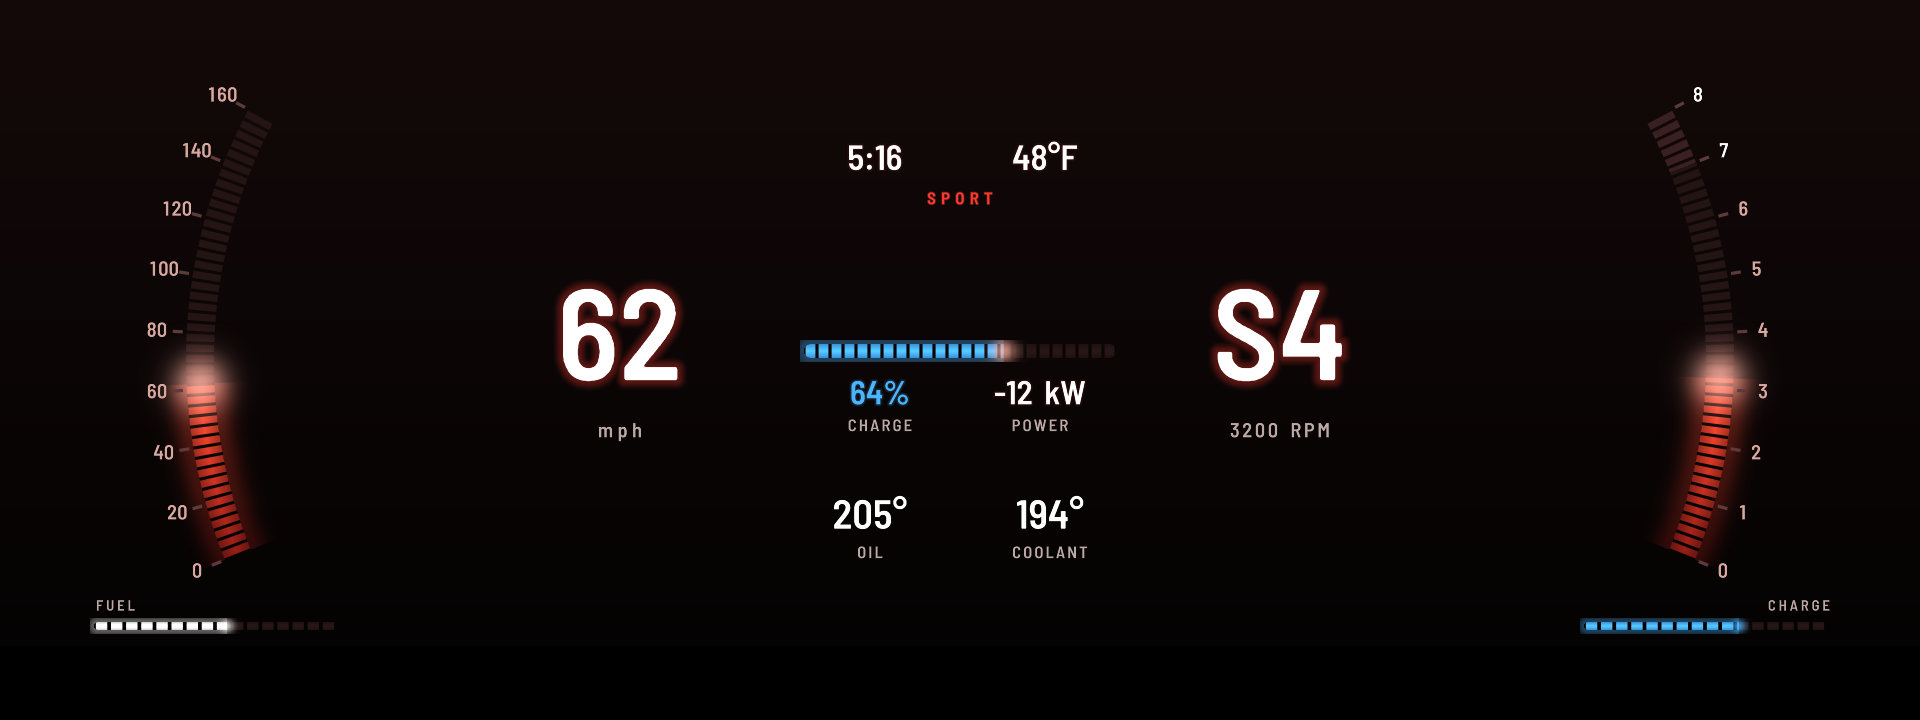
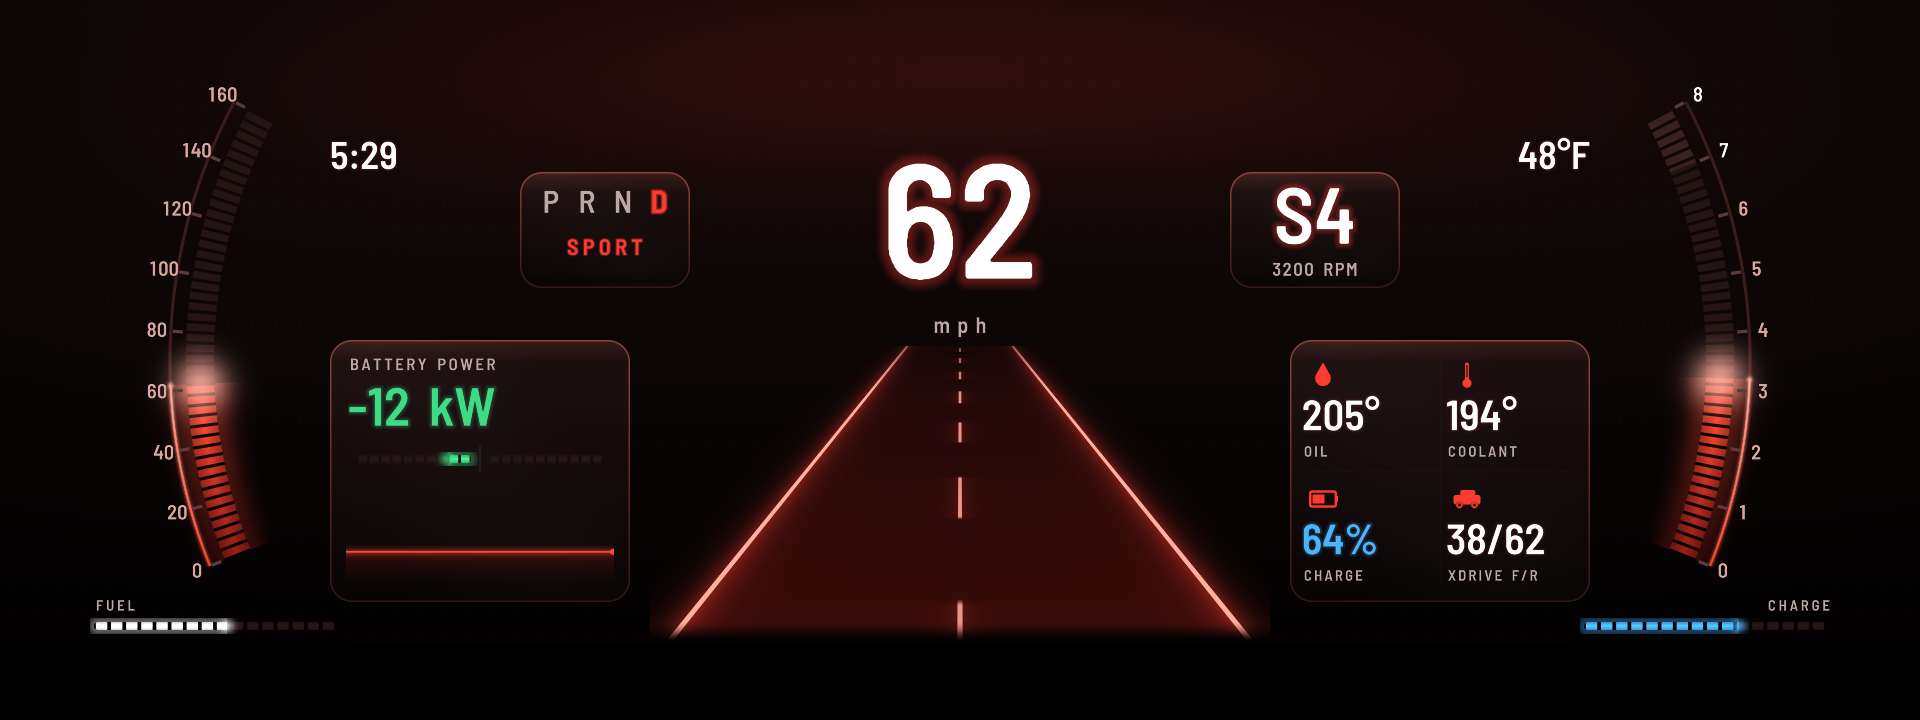
Cluster Layouts 0.18.0: Modern wide redesigned like a new car's cluster
With the car's own bottom strip: the speed large over the road ahead
(a new road shader, its lane line running with the speed on the
cluster's clock), the selector and drive mode and the gear on glass
chips, a power card with a centre-zero bar and trend, a card of oil,
coolant, charge and xDrive with icons, hairlines outside the arcs and a
lit, dotted background. Cluster Centre 0.7.2 carries the shared shader.

diff --git a/apps/cluster_layouts/layout_modern_wide.js b/apps/cluster_layouts/layout_modern_wide.js
@@ -20,16 +20,19 @@ const PALETTES = {
         bgTop: '#0b1018', bgBottom: '#020305', track: '#121a24', fill0: '#1d5f9e', fill1: '#5cc8ff', tip: '#a8e4ff',
         red: '#ff3b30', tick: '#3b4c5e', num: '#9fb3c8', text: '#f2f7ff', glow: '#3fa6ff', dim: '#a6b0ba', rule: '#1c2a3a', ev: '#4ab4ff',
         mode: 'COMFORT',
+        cardTop: '#111b28', cardBottom: '#070b11', cardEdge: '#2a4058', regen: '#3ddc84', road: '#1d5f9e',
     },
     sport: {
         bgTop: '#140909', bgBottom: '#040202', track: '#241414', fill0: '#8a1a14', fill1: '#ff4a30', tip: '#ffb0a0',
         red: '#ffffff', tick: '#5e3b3b', num: '#d8a8a0', text: '#ffffff', glow: '#ff3b2f', dim: '#bca8a4', rule: '#3a1c1c', ev: '#4ab4ff',
         mode: 'SPORT',
+        cardTop: '#1f1010', cardBottom: '#0a0505', cardEdge: '#5a2a26', regen: '#3ddc84', road: '#8a1a14',
     },
     efficient: {
         bgTop: '#06120f', bgBottom: '#010403', track: '#0f201c', fill0: '#127a5e', fill1: '#3cf0b8', tip: '#b0ffe6',
         red: '#ff3b30', tick: '#2f5048', num: '#9cc8bc', text: '#effffb', glow: '#22d3a0', dim: '#9eb6b0', rule: '#163a32', ev: '#22d3a0',
         mode: 'EFFICIENT',
+        cardTop: '#0c1d19', cardBottom: '#040b09', cardEdge: '#1f4a40', regen: '#5ef2c4', road: '#127a5e',
     },
 };
 const bandColours = (t) => ({ track: t.track, fill0: t.fill0, fill1: t.fill1, redc: t.red, tip: t.tip, tick: t.tick, num: t.num });
@@ -38,6 +41,80 @@ const txt = (t) => ({ color: [t.text, 1], glow: [t.glow, 0.15] });
 const evTxt = (t) => ({ color: [t.ev, 1], glow: [t.ev, 0.3] });
 const lbl = (t) => ({ color: [t.dim, 1], glow: [t.glow, 0] });
 const bg = (key, x, y, w, h) => ({ key, kind: 'panel', x, y, w, h, params: { u_box: [0, 0, 0, 1] }, colors: (t) => ({ top: t.bgTop, bottom: t.bgBottom, border: t.bgBottom }) });
+
+/* ---- the car's own bottom strip, readings in the centre: a new car's cluster ----
+ * A textured background with a glow behind the top; the two arcs with a hairline outside each; the speed large
+ * in the middle with the road ahead under it (its lane line running with the speed, on the cluster's clock);
+ * the drive selector and mode on a chip left of the speed, the gear and engine speed on one right of it; a glass
+ * card left with the battery's power, a centre-zero bar (regenerating left, drawing right) and its trend, and one
+ * right with oil, coolant, the charge and the xDrive split, each with its icon. */
+const ICON = { thermo: 0, oil: 1, turbo: 5, battery: 6, car: 10 };
+const card = (key, x, y, w, h) => ({ key, kind: 'panel', x, y, w, h, params: { u_box: [22, 1.5, 0.7, 0.92] }, colors: (t) => ({ top: t.cardTop, bottom: t.cardBottom, border: t.cardEdge }) });
+const icon = (key, x, y, size, id, colour) => ({ key, kind: 'icon', x, y, w: size, h: size, params: { u_icon: [id], u_line: [0] }, colors: (t, d) => ({ color: [typeof colour === 'function' ? colour(t, d) : t[colour], 1] }) });
+/** A straight bar (the band shader's bar mode), from the left or from the right. */
+const hbar = (key, x, y, w, h, value, colours, fromRight, segments) => ({ key, kind: 'band', x, y, w, h,
+    params: { u_geo: [Math.max(6, h / 2), h / 2, 0, Math.max(4, h * 0.6)], u_span: [fromRight ? -1 : 0, 0, segments || 0, 0.25], u_marks: [0, 0, 0, 0], u_red: [2] },
+    colors: colours, value, max: 1, sweep: true });
+const kwOf = (d) => (C.isNum(d.kw) ? d.kw : 0);
+
+function newCar(o, arcs, gearC, rpmTxt) {
+    const engine = C.engineFocus(o), sc = C.speedScale(o);
+    const hair = arcs.map((a) => Object.assign({}, a, {
+        key: a.key + 'Hair', z: -1,
+        params: Object.assign({}, a.params, { u_geo: [a.params.u_geo[0], a.params.u_geo[1], a.params.u_geo[2] + 30, 3], u_span: [a.params.u_span[0], a.params.u_span[1], 0, 0], u_marks: [0, 0, 0, 0], u_red: [2] }),
+        colors: (t) => ({ track: t.rule, fill0: t.fill1, fill1: t.tip, redc: t.red, tip: t.tip, tick: t.tick, num: t.num }),
+    }));
+    const lit = (t) => ({ color: [t.glow, 1], glow: [t.glow, 0.6] });
+    const L = { x: 330, y: 340, w: 300, h: 262 }, R = { x: 1290, y: 340, w: 300, h: 262 };
+    const cell = (i, id, ic, value, label, colour) => {
+        const cx = R.x + 12 + (i % 2) * 144, cy = R.y + 14 + Math.floor(i / 2) * 124;
+        return [icon(id + 'Ic', cx + 6, cy + 6, 30, ic, 'glow'),
+            C.text(id, cx, cy + 40, 132, 46, value, colour || txt, { align: 0 }),
+            C.text(id + 'Lbl', cx + 2, cy + 90, 132, 16, label, lbl, { align: 0, tracking: 0.14 })];
+    };
+    return [
+        { key: 'bgTex', kind: 'bg', x: 0, y: 0, w: 1920, h: 720, params: { u_look: [1, 0.55, 0.75, 24], u_feather: [0] }, colors: (t) => ({ top: t.bgTop, bottom: t.bgBottom, accent: t.glow }) },
+        { key: 'road', kind: 'road', x: 650, y: 346, w: 620, h: 296, value: (d) => (C.isNum(d.speed) ? Math.min(1, C.speedIn(o, d.speed) / sc.max) : 0), max: 1,
+            colors: (t) => ({ line: t.tip, glow: t.glow, surface: t.road }) },
+    ].concat(hair, arcs, [
+        // the top: the time and the outside temperature, inside the glass's slanted corners
+        C.text('clock', 330, 136, 240, 42, C.clock, txt, { align: 0 }),
+        C.text('outside', 1350, 136, 240, 42, (d) => C.outsideText(o, d.outside), txt, { align: 1 }),
+        // the speed, large, in the middle
+        C.text('speedDigits', 700, 140, 520, 176, (d) => C.speedText(o, d), big),
+        C.text('speedUnit', 700, 314, 520, 24, C.speedUnit(o), lbl, { tracking: 0.3 }),
+        // left chip: the selector and the drive mode; right chip: the gear and the engine speed
+        card('selChip', 520, 172, 170, 116),
+    ], 'PRND'.split('').map((ch, i) => C.text('sel' + ch, 534 + i * 36, 186, 34, 34, ch,
+        (t, d) => (C.selectorLit(d) === ch ? { color: [ch === 'R' ? t.red : t.glow, 1], glow: [t.glow, 0.9] } : { color: [t.dim, 1], glow: [t.glow, 0] }))), [
+        C.text('mode', 526, 236, 158, 24, C.modeText, lit, { tracking: 0.18 }),
+        card('gearChip', 1230, 172, 170, 116),
+        C.text('gear', 1230, 176, 170, 86, C.gearText, gearC),
+        C.text('rpmDigits', 1230, 260, 170, 20, rpmTxt, lbl, { tracking: 0.08 }),
+        // left card: the battery's power (or the engine's torque), a centre-zero bar and its trend
+        card('powerCard', L.x, L.y, L.w, L.h),
+        C.text('kwLbl', L.x + 20, L.y + 16, L.w - 40, 18, C.focus.powerLabel(o, true), lbl, { align: 0, tracking: 0.14 }),
+        C.text('kwNow', L.x + 18, L.y + 40, L.w - 36, 58, C.focus.power(o),
+            engine ? txt : (t, d) => ({ color: [kwOf(d) < -0.3 ? t.regen : t.text, 1], glow: [kwOf(d) < -0.3 ? t.regen : t.glow, 0.3] }), { align: 0 }),
+    ], engine ? [hbar('pwrBar', L.x + 20, L.y + 112, L.w - 40, 14, C.focus.torqueFrac, (t) => ({ track: t.track, fill0: t.fill0, fill1: t.fill1, redc: t.red, tip: t.tip, tick: t.dim, num: t.num }), false, 24)] : [
+        // regenerating fills left from the middle (to 60 kW), drawing fills right (to 100 kW)
+        hbar('regenBar', L.x + 20, L.y + 112, (L.w - 44) / 2, 14, (d) => Math.max(0, Math.min(1, -kwOf(d) / 60)), (t) => ({ track: t.track, fill0: t.regen, fill1: t.regen, redc: t.red, tip: t.regen, tick: t.dim, num: t.num }), true, 10),
+        hbar('drawBar', L.x + 24 + (L.w - 44) / 2, L.y + 112, (L.w - 44) / 2, 14, (d) => Math.max(0, Math.min(1, kwOf(d) / 100)), (t) => ({ track: t.track, fill0: t.fill0, fill1: t.fill1, redc: t.red, tip: t.tip, tick: t.dim, num: t.num }), false, 10),
+        C.flat('pwrZero', L.x + L.w / 2 - 1, L.y + 106, 2, 26, 'tip'),
+    ], [
+        { key: 'pwrTrend', kind: 'spark', x: L.x + 16, y: L.y + 146, w: L.w - 32, h: 96, every: 2000,
+            sample: engine ? (d) => (C.isNum(d.torque) ? Math.max(0, Math.min(1, d.torque / 450)) : -1) : (d) => (C.isNum(d.kw) ? Math.max(0, Math.min(1, 0.375 + d.kw / 160)) : -1),
+            colors: (t) => ({ line: t.fill1, fill: t.fill0 }) },
+        // right card: oil, coolant, the charge (or boost) and the xDrive split
+        card('infoCard', R.x, R.y, R.w, R.h),
+        C.flat('infoRuleV', R.x + R.w / 2, R.y + 18, 1, R.h - 36, 'cardEdge'),
+        C.flat('infoRuleH', R.x + 18, R.y + R.h / 2, R.w - 36, 1, 'cardEdge'),
+    ],
+    cell(0, 'oil', ICON.oil, (d) => C.tempText(o, d.oil), 'OIL'),
+    cell(1, 'coolant', ICON.thermo, (d) => C.tempText(o, d.coolant), 'COOLANT'),
+    cell(2, 'soc', engine ? ICON.turbo : ICON.battery, C.focus.charge(o), C.focus.chargeLabel(o), engine ? txt : evTxt),
+    cell(3, 'split', ICON.car, (d) => (C.isNum(d.splitRear) ? Math.round(100 - d.splitRear) + '/' + Math.round(d.splitRear) : '--'), 'XDRIVE F/R'));
+}
 
 module.exports = {
     id: 'modern_wide',
@@ -92,6 +169,7 @@ module.exports = {
             C.text('gear', 1150, 270, 260, 140, C.gearText, gearC),
             C.text('rpmDigits', 1150, 420, 260, 22, rpmTxt, lbl, { tracking: 0.12 }),
         ]);
+        if (strip && (o.centre || 'info') === 'info') return newCar(o, arcs, gearC, rpmTxt);
         if (o.centre === 'stock') {
             list[0] = bg('bg', 0, 0, 760, 720);
             list.splice(1, 0, bg('bgR', 1160, 0, 760, 720));

diff --git a/apps/cluster_centre/shaders.js b/apps/cluster_centre/shaders.js
@@ -764,4 +764,40 @@ void main() {
     gl_FragColor = vec4(a > 0.0 ? min(col / max(a, 0.001), vec3(1.0)) : vec3(0.0), a);
 }`;
 
-module.exports = { HIGHP, COMMON, GLYPH, FLAT_FS, PANEL_FS, DIAL_FS, BAND_FS, TEXT_FS, BG_FS, ICON_FS, SPARK_FS, CAR_FS, LEDS_FS, FLAG_FS, EAGLE_FS, FIREWORKS_FS };
+/**
+ * A road ahead in perspective: two lanes' edges converging to a point above the layer, the lane line between
+ * them dashed and running towards the viewer with the speed (on the renderer's clock: only the speed is sent),
+ * a soft glow along the edges, the surface faintly lit, fading out at the horizon.
+ *   u_value   the speed 0..1 (how fast the dashes run)
+ */
+const ROAD_FS = `#version 100
+${HIGHP}${COMMON}
+uniform vec2 u_size;
+uniform highp float u_time;
+uniform float u_value;
+uniform vec3 u_line;
+uniform vec3 u_glow;
+uniform vec3 u_surface;
+varying vec2 v_uv;
+float lineA(float dx, float w) { return clamp(w - abs(dx) + 0.5, 0.0, 1.0); }
+void main() {
+    vec2 p = v_uv * u_size;
+    float h0 = u_size.y * 0.22;
+    float t = (p.y + h0) / (u_size.y + h0);               /* 0 at the vanishing point, 1 at the bottom */
+    float cx = u_size.x * 0.5, hw = t * u_size.x * 0.47, dx = p.x - cx, ax = abs(dx);
+    float z = 1.0 / max(t, 0.05);
+    float run = fract(z * 1.4 + u_time * (0.25 + 2.2 * clamp(u_value, 0.0, 1.0)));
+    float dash = smoothstep(0.42, 0.46, run) * (1.0 - smoothstep(0.86, 0.9, run));
+    float w = 0.8 + 2.6 * t;
+    float edge = lineA(ax - hw, w);
+    float mid = lineA(dx, w * 0.8) * dash;
+    float glow = exp(-abs(ax - hw) / (4.0 + 16.0 * t)) * 0.45 + exp(-ax / (3.0 + 10.0 * t)) * 0.18 * dash;
+    float fade = smoothstep(0.04, 0.34, t) * (1.0 - smoothstep(0.94, 1.0, t));
+    float onRoad = 1.0 - smoothstep(hw - 1.5, hw + 1.5, ax);
+    vec4 acc = vec4(u_surface, onRoad * (0.10 + 0.30 * t) * fade);
+    acc = over(acc, u_glow, clamp(glow, 0.0, 1.0) * fade);
+    acc = over(acc, u_line, max(edge, mid * 0.85) * fade);
+    gl_FragColor = acc;
+}`;
+
+module.exports = { HIGHP, COMMON, GLYPH, FLAT_FS, PANEL_FS, DIAL_FS, BAND_FS, TEXT_FS, BG_FS, ICON_FS, SPARK_FS, CAR_FS, LEDS_FS, FLAG_FS, EAGLE_FS, FIREWORKS_FS, ROAD_FS };

diff --git a/apps/cluster_layouts/shaders.js b/apps/cluster_layouts/shaders.js
@@ -764,4 +764,40 @@ void main() {
     gl_FragColor = vec4(a > 0.0 ? min(col / max(a, 0.001), vec3(1.0)) : vec3(0.0), a);
 }`;
 
-module.exports = { HIGHP, COMMON, GLYPH, FLAT_FS, PANEL_FS, DIAL_FS, BAND_FS, TEXT_FS, BG_FS, ICON_FS, SPARK_FS, CAR_FS, LEDS_FS, FLAG_FS, EAGLE_FS, FIREWORKS_FS };
+/**
+ * A road ahead in perspective: two lanes' edges converging to a point above the layer, the lane line between
+ * them dashed and running towards the viewer with the speed (on the renderer's clock: only the speed is sent),
+ * a soft glow along the edges, the surface faintly lit, fading out at the horizon.
+ *   u_value   the speed 0..1 (how fast the dashes run)
+ */
+const ROAD_FS = `#version 100
+${HIGHP}${COMMON}
+uniform vec2 u_size;
+uniform highp float u_time;
+uniform float u_value;
+uniform vec3 u_line;
+uniform vec3 u_glow;
+uniform vec3 u_surface;
+varying vec2 v_uv;
+float lineA(float dx, float w) { return clamp(w - abs(dx) + 0.5, 0.0, 1.0); }
+void main() {
+    vec2 p = v_uv * u_size;
+    float h0 = u_size.y * 0.22;
+    float t = (p.y + h0) / (u_size.y + h0);               /* 0 at the vanishing point, 1 at the bottom */
+    float cx = u_size.x * 0.5, hw = t * u_size.x * 0.47, dx = p.x - cx, ax = abs(dx);
+    float z = 1.0 / max(t, 0.05);
+    float run = fract(z * 1.4 + u_time * (0.25 + 2.2 * clamp(u_value, 0.0, 1.0)));
+    float dash = smoothstep(0.42, 0.46, run) * (1.0 - smoothstep(0.86, 0.9, run));
+    float w = 0.8 + 2.6 * t;
+    float edge = lineA(ax - hw, w);
+    float mid = lineA(dx, w * 0.8) * dash;
+    float glow = exp(-abs(ax - hw) / (4.0 + 16.0 * t)) * 0.45 + exp(-ax / (3.0 + 10.0 * t)) * 0.18 * dash;
+    float fade = smoothstep(0.04, 0.34, t) * (1.0 - smoothstep(0.94, 1.0, t));
+    float onRoad = 1.0 - smoothstep(hw - 1.5, hw + 1.5, ax);
+    vec4 acc = vec4(u_surface, onRoad * (0.10 + 0.30 * t) * fade);
+    acc = over(acc, u_glow, clamp(glow, 0.0, 1.0) * fade);
+    acc = over(acc, u_line, max(edge, mid * 0.85) * fade);
+    gl_FragColor = acc;
+}`;
+
+module.exports = { HIGHP, COMMON, GLYPH, FLAT_FS, PANEL_FS, DIAL_FS, BAND_FS, TEXT_FS, BG_FS, ICON_FS, SPARK_FS, CAR_FS, LEDS_FS, FLAG_FS, EAGLE_FS, FIREWORKS_FS, ROAD_FS };

diff --git a/shared/shaders.js b/shared/shaders.js
@@ -764,4 +764,40 @@ void main() {
     gl_FragColor = vec4(a > 0.0 ? min(col / max(a, 0.001), vec3(1.0)) : vec3(0.0), a);
 }`;
 
-module.exports = { HIGHP, COMMON, GLYPH, FLAT_FS, PANEL_FS, DIAL_FS, BAND_FS, TEXT_FS, BG_FS, ICON_FS, SPARK_FS, CAR_FS, LEDS_FS, FLAG_FS, EAGLE_FS, FIREWORKS_FS };
+/**
+ * A road ahead in perspective: two lanes' edges converging to a point above the layer, the lane line between
+ * them dashed and running towards the viewer with the speed (on the renderer's clock: only the speed is sent),
+ * a soft glow along the edges, the surface faintly lit, fading out at the horizon.
+ *   u_value   the speed 0..1 (how fast the dashes run)
+ */
+const ROAD_FS = `#version 100
+${HIGHP}${COMMON}
+uniform vec2 u_size;
+uniform highp float u_time;
+uniform float u_value;
+uniform vec3 u_line;
+uniform vec3 u_glow;
+uniform vec3 u_surface;
+varying vec2 v_uv;
+float lineA(float dx, float w) { return clamp(w - abs(dx) + 0.5, 0.0, 1.0); }
+void main() {
+    vec2 p = v_uv * u_size;
+    float h0 = u_size.y * 0.22;
+    float t = (p.y + h0) / (u_size.y + h0);               /* 0 at the vanishing point, 1 at the bottom */
+    float cx = u_size.x * 0.5, hw = t * u_size.x * 0.47, dx = p.x - cx, ax = abs(dx);
+    float z = 1.0 / max(t, 0.05);
+    float run = fract(z * 1.4 + u_time * (0.25 + 2.2 * clamp(u_value, 0.0, 1.0)));
+    float dash = smoothstep(0.42, 0.46, run) * (1.0 - smoothstep(0.86, 0.9, run));
+    float w = 0.8 + 2.6 * t;
+    float edge = lineA(ax - hw, w);
+    float mid = lineA(dx, w * 0.8) * dash;
+    float glow = exp(-abs(ax - hw) / (4.0 + 16.0 * t)) * 0.45 + exp(-ax / (3.0 + 10.0 * t)) * 0.18 * dash;
+    float fade = smoothstep(0.04, 0.34, t) * (1.0 - smoothstep(0.94, 1.0, t));
+    float onRoad = 1.0 - smoothstep(hw - 1.5, hw + 1.5, ax);
+    vec4 acc = vec4(u_surface, onRoad * (0.10 + 0.30 * t) * fade);
+    acc = over(acc, u_glow, clamp(glow, 0.0, 1.0) * fade);
+    acc = over(acc, u_line, max(edge, mid * 0.85) * fade);
+    gl_FragColor = acc;
+}`;
+
+module.exports = { HIGHP, COMMON, GLYPH, FLAT_FS, PANEL_FS, DIAL_FS, BAND_FS, TEXT_FS, BG_FS, ICON_FS, SPARK_FS, CAR_FS, LEDS_FS, FLAG_FS, EAGLE_FS, FIREWORKS_FS, ROAD_FS };

diff --git a/apps/cluster_centre/engine.js b/apps/cluster_centre/engine.js
@@ -43,10 +43,10 @@ const TAU_MS = 30;           // a needle's easing towards its reading: smooth be
 const MIN_GAP_MS = 4;        // a reading's update at most this soon after the last
 const EPS = 0.0015;          // a value moving less than this (of its max) is not sent
 const SWEEP_MS = 700;        // up, then as long back down
-const FS = { flat: SH.FLAT_FS, panel: SH.PANEL_FS, dial: SH.DIAL_FS, band: SH.BAND_FS, text: SH.TEXT_FS, bg: SH.BG_FS, icon: SH.ICON_FS, spark: SH.SPARK_FS, car: SH.CAR_FS, leds: SH.LEDS_FS, flag: SH.FLAG_FS, eagles: SH.EAGLE_FS, fireworks: SH.FIREWORKS_FS };
-const Z = { flag: -210, bg: -200, fireworks: -190, eagles: -180, flat: -100, panel: -50, spark: -20, band: 0, dial: 0, car: 0, leds: 0, text: 20, icon: 20 };
+const FS = { flat: SH.FLAT_FS, panel: SH.PANEL_FS, dial: SH.DIAL_FS, band: SH.BAND_FS, text: SH.TEXT_FS, bg: SH.BG_FS, icon: SH.ICON_FS, spark: SH.SPARK_FS, car: SH.CAR_FS, leds: SH.LEDS_FS, flag: SH.FLAG_FS, eagles: SH.EAGLE_FS, fireworks: SH.FIREWORKS_FS, road: SH.ROAD_FS };
+const Z = { flag: -210, bg: -200, road: -40, fireworks: -190, eagles: -180, flat: -100, panel: -50, spark: -20, band: 0, dial: 0, car: 0, leds: 0, text: 20, icon: 20 };
 /* kinds that animate on the renderer's own clock (u_time): nothing is sent to move them */
-const TIMED = { car: true, leds: true, flag: true, eagles: true, fireworks: true };
+const TIMED = { road: true, car: true, leds: true, flag: true, eagles: true, fireworks: true };
 const HIST = 64;
 /* the most layers up at once while one set replaces another (the service allows 64 an app) */
 const MAX_AT_ONCE = 60;

diff --git a/apps/cluster_layouts/engine.js b/apps/cluster_layouts/engine.js
@@ -43,10 +43,10 @@ const TAU_MS = 30;           // a needle's easing towards its reading: smooth be
 const MIN_GAP_MS = 4;        // a reading's update at most this soon after the last
 const EPS = 0.0015;          // a value moving less than this (of its max) is not sent
 const SWEEP_MS = 700;        // up, then as long back down
-const FS = { flat: SH.FLAT_FS, panel: SH.PANEL_FS, dial: SH.DIAL_FS, band: SH.BAND_FS, text: SH.TEXT_FS, bg: SH.BG_FS, icon: SH.ICON_FS, spark: SH.SPARK_FS, car: SH.CAR_FS, leds: SH.LEDS_FS, flag: SH.FLAG_FS, eagles: SH.EAGLE_FS, fireworks: SH.FIREWORKS_FS };
-const Z = { flag: -210, bg: -200, fireworks: -190, eagles: -180, flat: -100, panel: -50, spark: -20, band: 0, dial: 0, car: 0, leds: 0, text: 20, icon: 20 };
+const FS = { flat: SH.FLAT_FS, panel: SH.PANEL_FS, dial: SH.DIAL_FS, band: SH.BAND_FS, text: SH.TEXT_FS, bg: SH.BG_FS, icon: SH.ICON_FS, spark: SH.SPARK_FS, car: SH.CAR_FS, leds: SH.LEDS_FS, flag: SH.FLAG_FS, eagles: SH.EAGLE_FS, fireworks: SH.FIREWORKS_FS, road: SH.ROAD_FS };
+const Z = { flag: -210, bg: -200, road: -40, fireworks: -190, eagles: -180, flat: -100, panel: -50, spark: -20, band: 0, dial: 0, car: 0, leds: 0, text: 20, icon: 20 };
 /* kinds that animate on the renderer's own clock (u_time): nothing is sent to move them */
-const TIMED = { car: true, leds: true, flag: true, eagles: true, fireworks: true };
+const TIMED = { road: true, car: true, leds: true, flag: true, eagles: true, fireworks: true };
 const HIST = 64;
 /* the most layers up at once while one set replaces another (the service allows 64 an app) */
 const MAX_AT_ONCE = 60;

diff --git a/shared/engine.js b/shared/engine.js
@@ -43,10 +43,10 @@ const TAU_MS = 30;           // a needle's easing towards its reading: smooth be
 const MIN_GAP_MS = 4;        // a reading's update at most this soon after the last
 const EPS = 0.0015;          // a value moving less than this (of its max) is not sent
 const SWEEP_MS = 700;        // up, then as long back down
-const FS = { flat: SH.FLAT_FS, panel: SH.PANEL_FS, dial: SH.DIAL_FS, band: SH.BAND_FS, text: SH.TEXT_FS, bg: SH.BG_FS, icon: SH.ICON_FS, spark: SH.SPARK_FS, car: SH.CAR_FS, leds: SH.LEDS_FS, flag: SH.FLAG_FS, eagles: SH.EAGLE_FS, fireworks: SH.FIREWORKS_FS };
-const Z = { flag: -210, bg: -200, fireworks: -190, eagles: -180, flat: -100, panel: -50, spark: -20, band: 0, dial: 0, car: 0, leds: 0, text: 20, icon: 20 };
+const FS = { flat: SH.FLAT_FS, panel: SH.PANEL_FS, dial: SH.DIAL_FS, band: SH.BAND_FS, text: SH.TEXT_FS, bg: SH.BG_FS, icon: SH.ICON_FS, spark: SH.SPARK_FS, car: SH.CAR_FS, leds: SH.LEDS_FS, flag: SH.FLAG_FS, eagles: SH.EAGLE_FS, fireworks: SH.FIREWORKS_FS, road: SH.ROAD_FS };
+const Z = { flag: -210, bg: -200, road: -40, fireworks: -190, eagles: -180, flat: -100, panel: -50, spark: -20, band: 0, dial: 0, car: 0, leds: 0, text: 20, icon: 20 };
 /* kinds that animate on the renderer's own clock (u_time): nothing is sent to move them */
-const TIMED = { car: true, leds: true, flag: true, eagles: true, fireworks: true };
+const TIMED = { road: true, car: true, leds: true, flag: true, eagles: true, fireworks: true };
 const HIST = 64;
 /* the most layers up at once while one set replaces another (the service allows 64 an app) */
 const MAX_AT_ONCE = 60;

diff --git a/apps/cluster_layouts/README.md b/apps/cluster_layouts/README.md
@@ -36,8 +36,13 @@ coolant arcs.
 
 ### Modern wide
 
-No round dials: segmented arcs frame the cluster, the speed and the gear stand large inside them, and the
-centre holds the time, outside temperature, drive mode, ranges, charge, power and temperatures.
+No round dials: segmented arcs frame the cluster, a hairline outside each. With the car's own bottom strip (the
+default) it is laid out like a new car's: the speed large in the middle over the road ahead (its lane line runs
+toward you with the speed, animated by the cluster itself), the selector and drive mode on a glass chip left of
+the speed, the gear and engine speed on one right of it, a glass card on the left with the battery's power, a
+centre-zero bar (regenerating left, drawing right) and its trend, and one on the right with oil, coolant, the
+charge and the xDrive split, each with its icon, over a softly lit, finely dotted background. Its colours follow
+the drive mode. Full screen or with the map, it keeps its earlier layout.
 
 ![Modern wide](../../docs/modern_wide.png)
 
